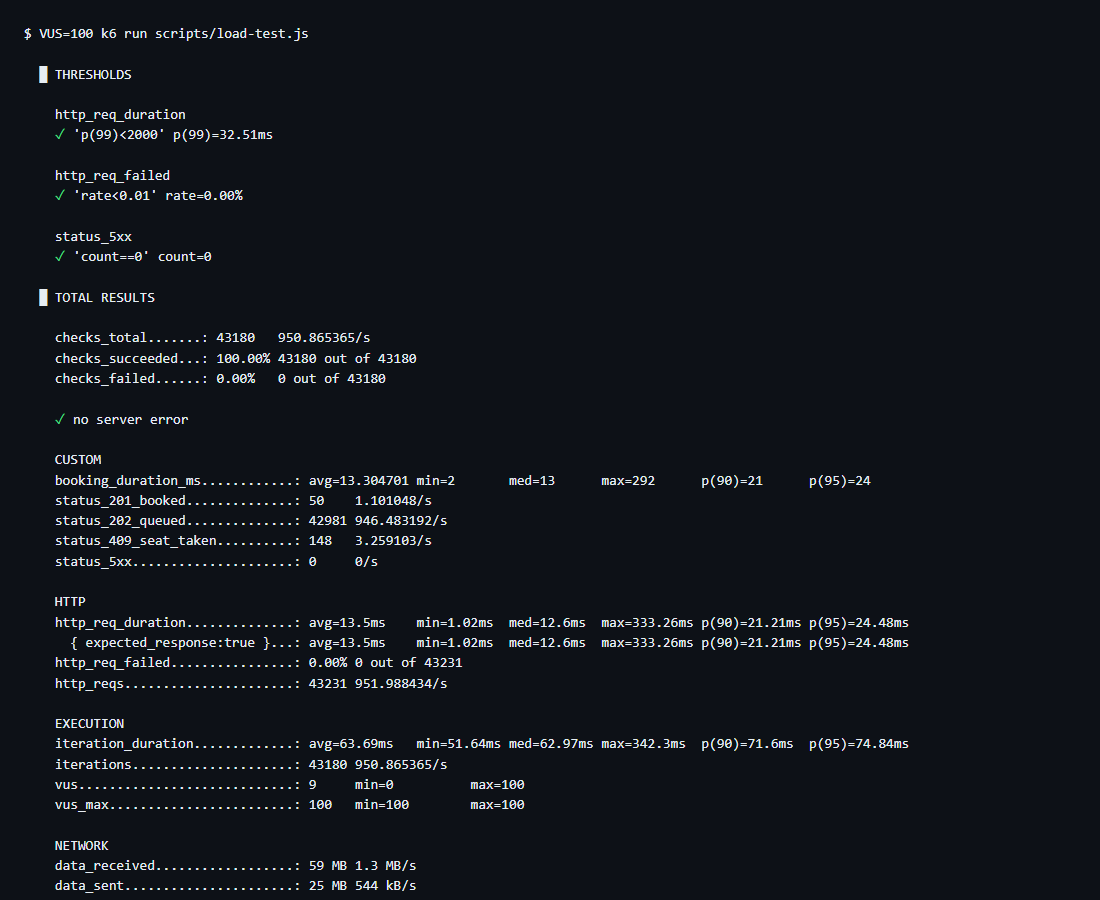
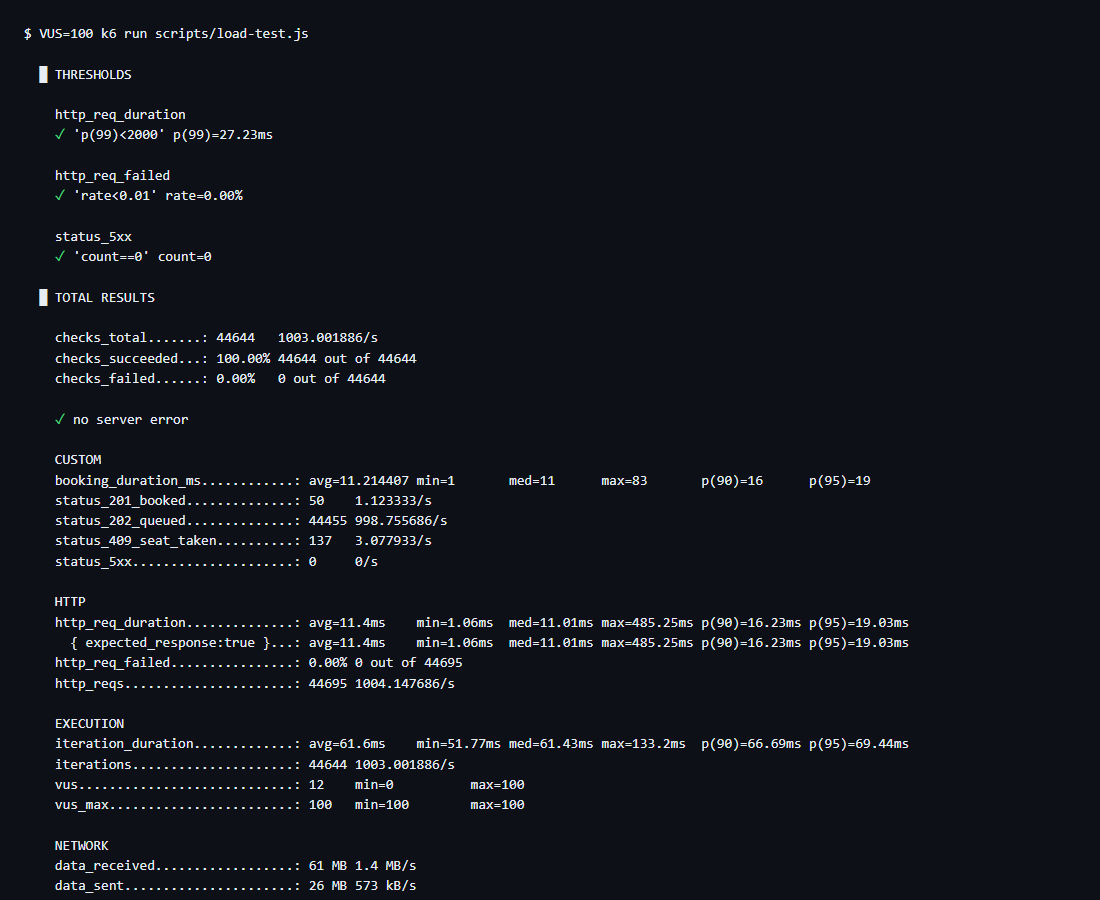
perf: cache event lookups on booking path, fix CI tests and k6 metrics

diff --git a/backend/src/services/event/eventService.ts b/backend/src/services/event/eventService.ts
@@ -15,7 +15,11 @@ interface CreateEventInput {
   ends_at: string;
 }
 
+const EVENT_CACHE_TTL_MS = 5_000;
+
 export class EventService {
+  private eventCache = new Map<string, { event: Event; expiresAt: number }>();
+
   async getEvents(): Promise<Event[]> {
     // available_seats is always computed live from seats table — not stored on events
     return query<Event>(`
@@ -40,10 +44,27 @@ export class EventService {
     `, [eventId]);
 
     if (!rows.length) return null;
-    const event = rows[0];
+    return this.withLiveInventory(rows[0]);
+  }
 
+  // Booking hot path: skips the Postgres query for a few seconds per event.
+  // Only the seat count changes under load, and that comes from Redis anyway.
+  async getEventCached(eventId: string): Promise<Event | null> {
+    const hit = this.eventCache.get(eventId);
+    if (hit && hit.expiresAt > Date.now()) {
+      return this.withLiveInventory({ ...hit.event });
+    }
+
+    const event = await this.getEventById(eventId);
+    if (event) {
+      this.eventCache.set(eventId, { event: { ...event }, expiresAt: Date.now() + EVENT_CACHE_TTL_MS });
+    }
+    return event;
+  }
+
+  private async withLiveInventory(event: Event): Promise<Event> {
     // Redis overrides the DB count for the hot path (fresher under high load)
-    const redisCount = await redis.get(KEYS.seatInventory(eventId));
+    const redisCount = await redis.get(KEYS.seatInventory(event.id));
     if (redisCount !== null) {
       event.available_seats = parseInt(redisCount, 10);
     }

diff --git a/backend/src/services/booking/bookingService.ts b/backend/src/services/booking/bookingService.ts
@@ -27,7 +27,7 @@ export class BookingService {
       if (cached) return cached;
     }
 
-    const event = await eventService.getEventById(data.event_id);
+    const event = await eventService.getEventCached(data.event_id);
     if (!event) throw new HttpError(404, 'Event not found');
     if (event.status !== 'published') throw new HttpError(422, 'Event is not accepting bookings');
 
@@ -282,7 +282,7 @@ export class BookingService {
     const waiter = JSON.parse(released) as { userId: string; seatId: string; timestamp: number };
 
     try {
-      const event = await eventService.getEventById(eventId);
+      const event = await eventService.getEventCached(eventId);
       const amount = event
         ? eventService.calculatePrice(event.base_price, event.available_seats, event.total_seats)
         : 0;

diff --git a/README.md b/README.md
@@ -57,10 +57,12 @@ Tested with k6 against the production build of the backend, running locally on a
 
 | Test | VUs | Requests | Booked (201) | Queued (202) | Seat taken (409) | 5xx | Doubles in DB | p99 latency | Throughput |
 |---|---|---|---|---|---|---|---|---|---|
-| Load | 100 | 43,231 | 50 | 42,981 | 148 | 0 | 0 | 33 ms | 952 req/s |
-| Stress | 500 | 89,026 | 50 | 88,726 | 195 | 0 | 0 | 191 ms | 1,945 req/s |
+| Load | 100 | 44,695 | 50 | 44,455 | 137 | 0 | 0 | 27 ms | 1,004 req/s |
+| Stress | 500 | 158,927 | 50 | 158,703 | 120 | 0 | 0 | 134 ms | 3,564 req/s |
 
 Once all 50 seats are taken, the Redis counter hits 0 and every further request is put on the waitlist (202) without touching Postgres.
+
+**Event cache.** The booking path used to load the event from Postgres on every request (a join plus a count over all seats), even for requests that only end up on the waitlist. With 20 pool connections, requests queued up waiting for one. Event details are now cached in memory for 5 seconds, and the seat count still comes live from Redis. At 500 VUs this took throughput from 1,945 to 3,564 req/s and p99 from 191 ms to 134 ms.
 
 After every test, the database is checked directly for any seat with more than one active booking:
 
